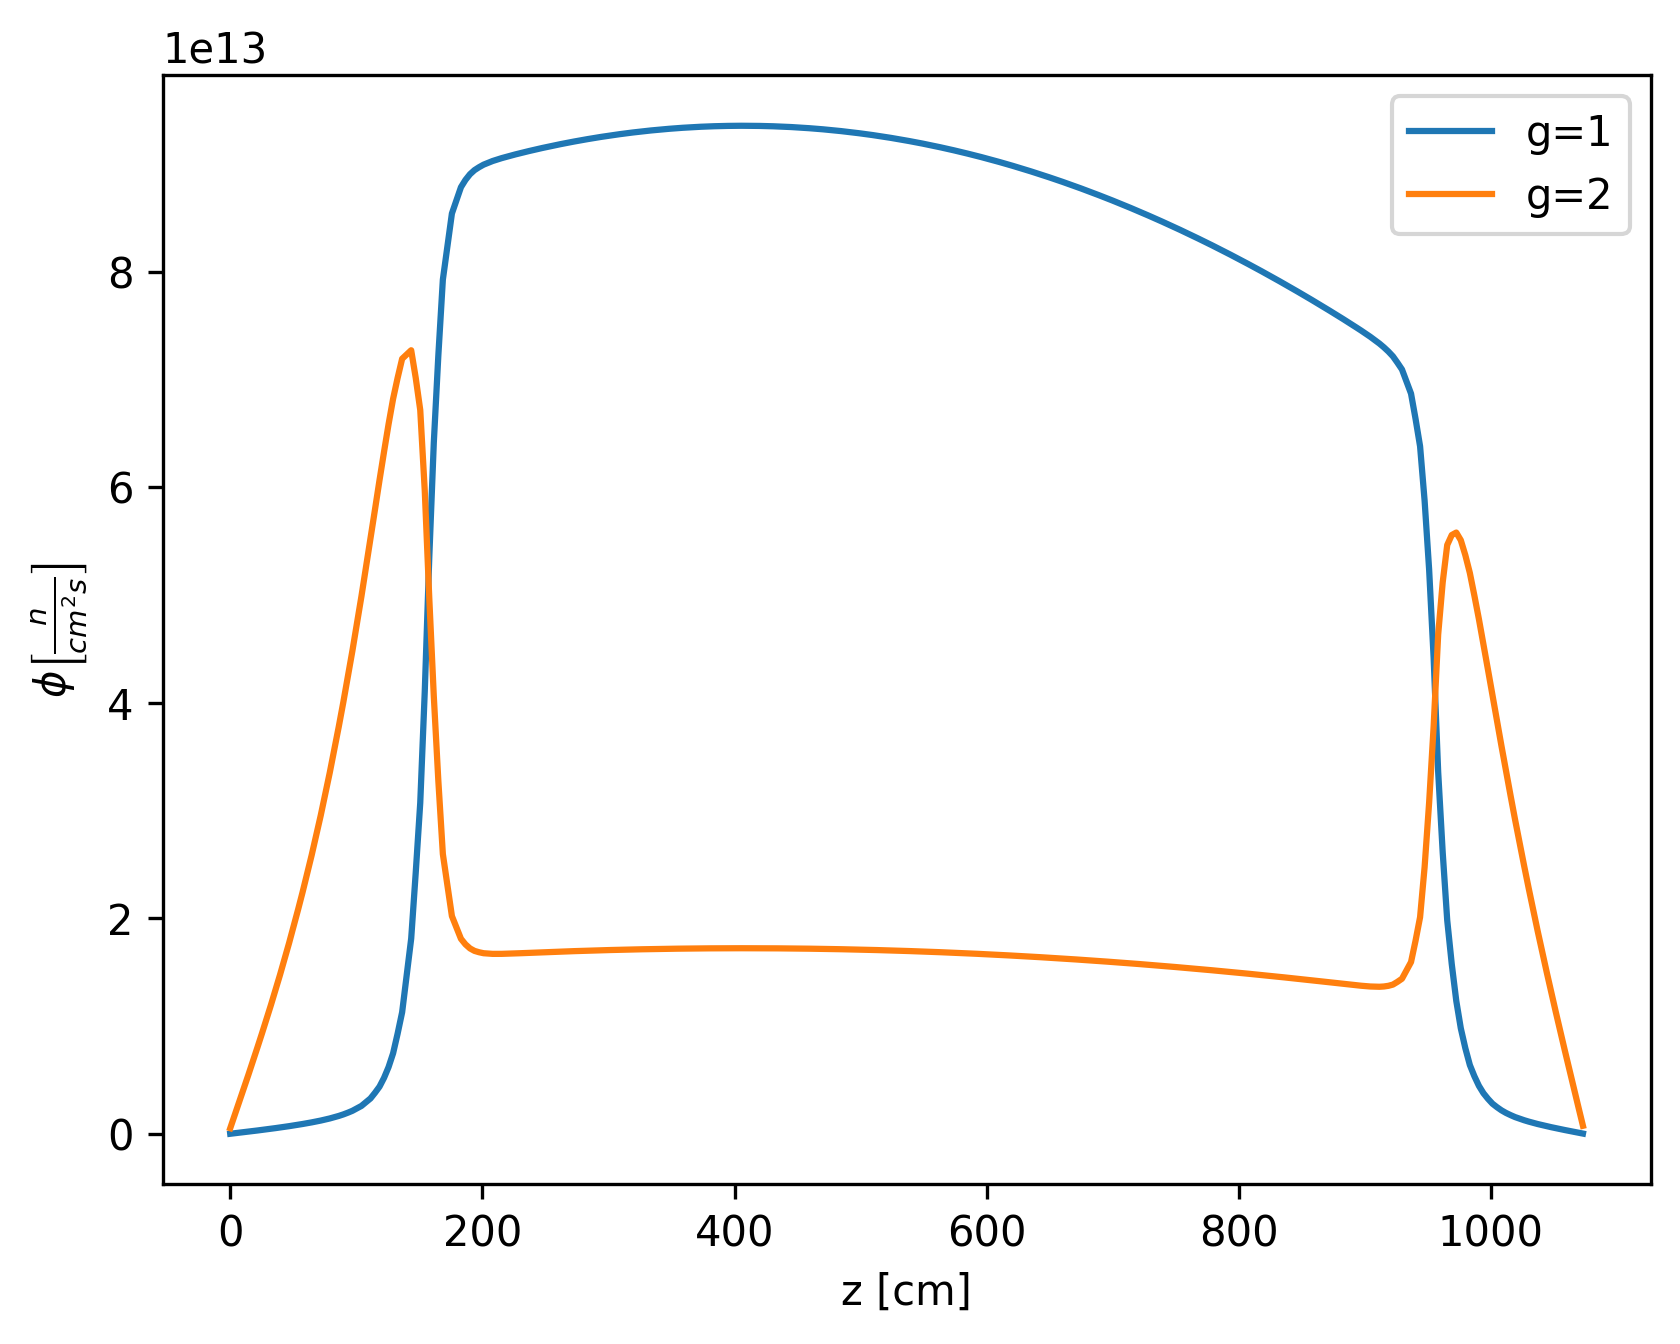
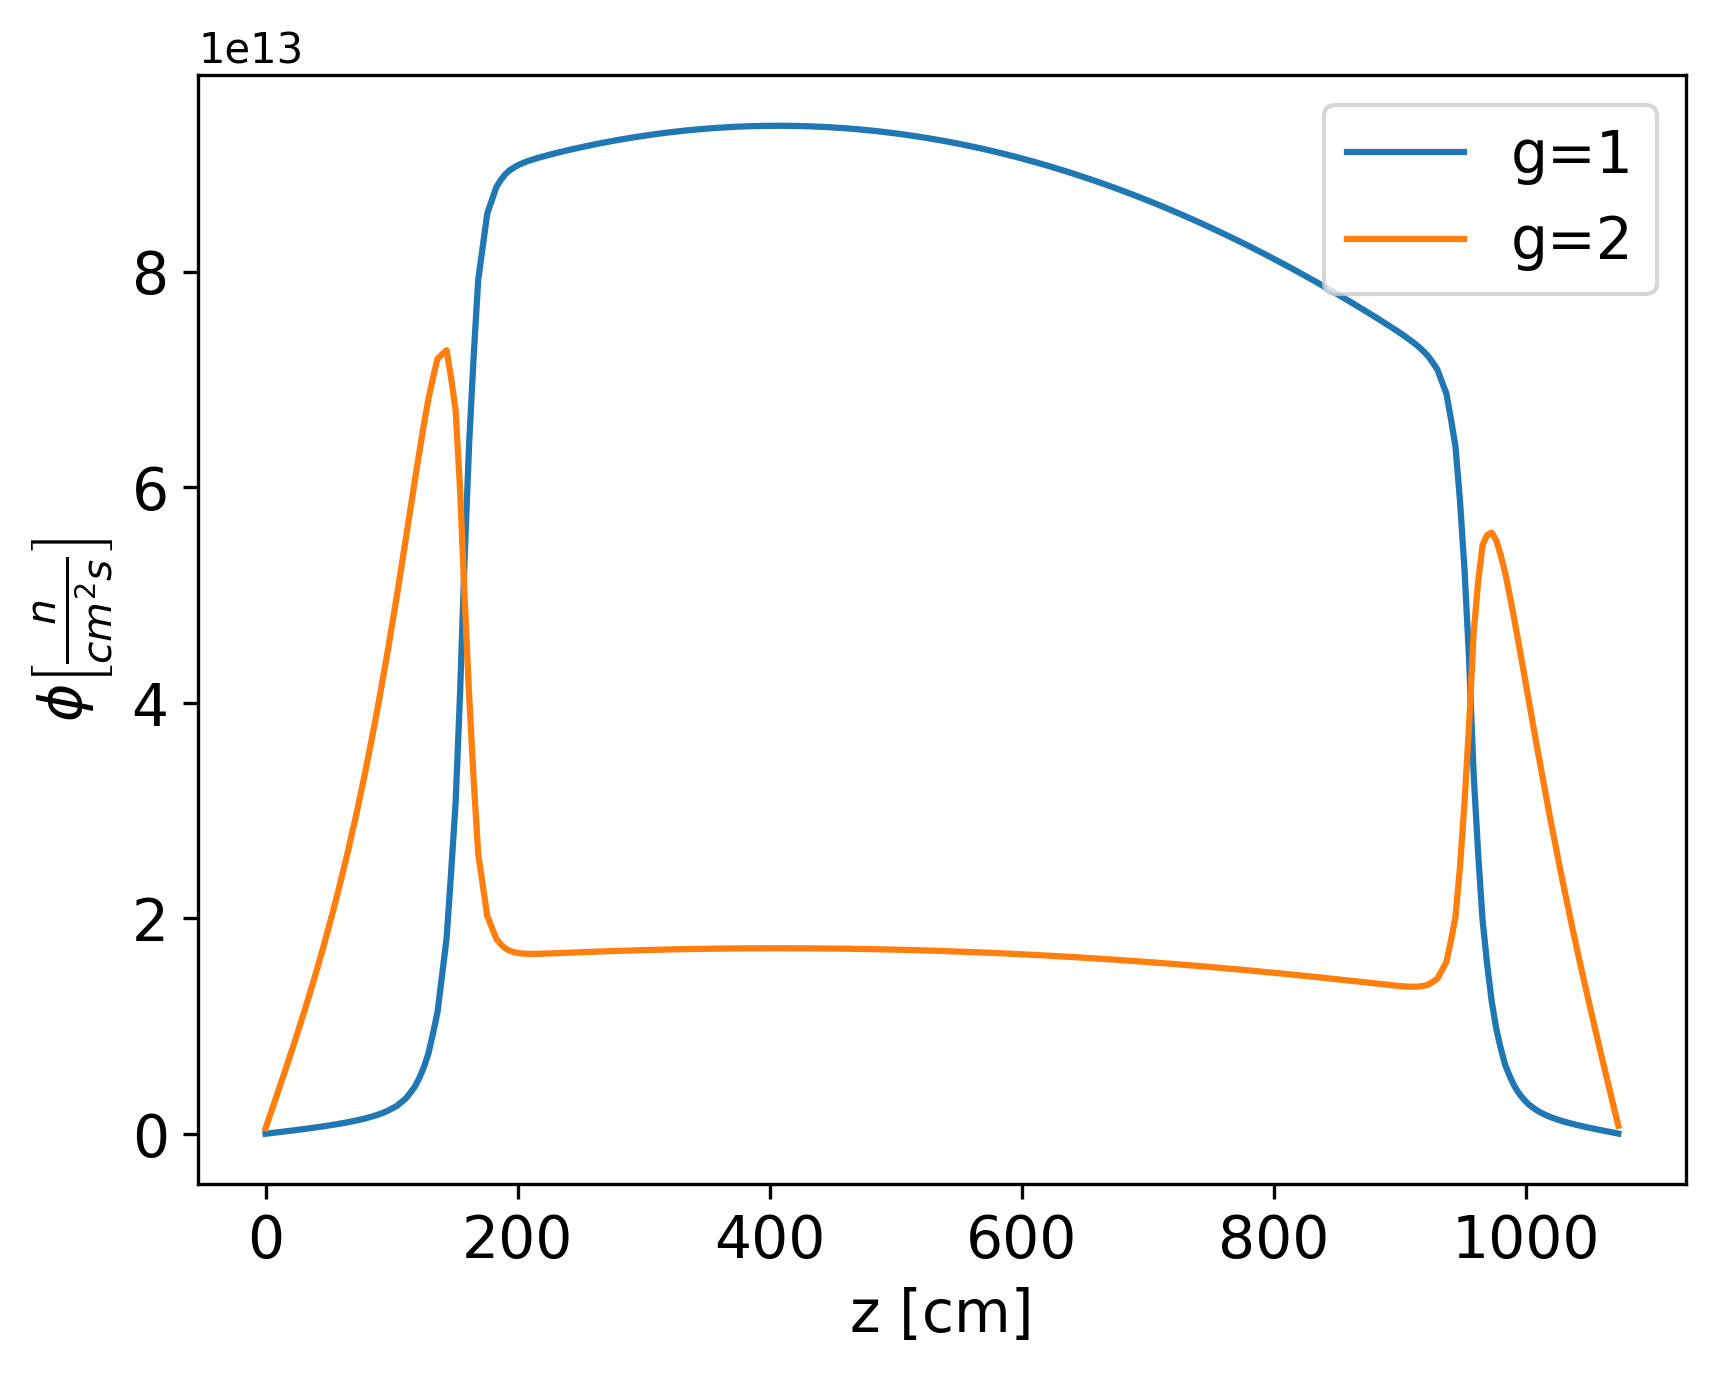
re-added file necessary for making the figures

Changed region(s): [[0.0, 0.0, 0.9905, 0.9688], [0.681, 0.1562, 0.7429, 0.1875], [0.619, 0.125, 0.681, 0.1562]]

diff --git a/serpent-moltres/problem-setup/auxiliary.py b/serpent-moltres/problem-setup/auxiliary.py
@@ -93,6 +93,56 @@ def moltres_assembly_legend():
                 dpi=300, bbox_inches="tight")
 
 
+def plot_serpent_axial_werrbars(data, name, save, V=1, dire='Z'):
+    """
+    Plots axial flux from serpent detector.
+
+    Parameters:
+    -----------
+    data: [serpenttools format]
+    name: [string]
+        name of the detector
+    fig: [string]
+        root name of the figure
+    V: [float]
+        total volume where the detector is applied [cm3]
+    dire: [float]
+        direction that the detector faces: 'X', 'Y', 'Z'
+    """
+
+    det = data.detectors[name]
+    z = [line[0] for line in det.grids[dire]]
+    z = np.array(z) + 160
+    val = det.tallies
+
+    vdetector = V/len(z)
+    val = val/vdetector
+    # M = max(val[1])
+    # val /= M
+
+    er = det.errors * val
+    G = len(val)  # number of energy groups
+
+    plt.figure()
+    for i in range(G):
+        # plt.step(z, val[G-1-i], where='post', label='g={0}'.format(i+1))
+        plt.errorbar(z, val[G-1-i], yerr=er[G-1-i], drawstyle='steps-post',
+                     label='g={0}'.format(i+1))
+
+    if G < 20:
+        plt.legend(loc="upper right", fontsize=14)
+    else:
+        plt.legend(loc="upper left", bbox_to_anchor=(1., 1.2), fancybox=True,
+                   fontsize=14)
+
+    plt.xticks(fontsize=14)
+    plt.yticks(fontsize=14)
+    plt.xlabel(dire.lower()+' [cm]', fontsize=14)
+    plt.ylabel(r'$\phi \left[\frac{n}{cm^2s}\right]$', fontsize=14)
+    plt.savefig(save + '-' + name + '-er', dpi=300, bbox_inches="tight")
+    plt.close()
+
+
 def plot_serpent_axial(data, name, save, V=1, dire='Z'):
     """
     Plots axial flux from serpent detector.
@@ -109,6 +159,7 @@ def plot_serpent_axial(data, name, save, V=1, dire='Z'):
     dire: [float]
         direction that the detector faces: 'X', 'Y', 'Z'
     """
+
     det = data.detectors[name]
     z = [line[0] for line in det.grids[dire]]
     z = np.array(z) + 160
@@ -123,13 +174,18 @@ def plot_serpent_axial(data, name, save, V=1, dire='Z'):
     for i in range(G):
         plt.step(z, val[G-1-i], where='post', label='g={0}'.format(i+1))
 
-    plt.xlabel(dire.lower()+' [cm]')
-    plt.ylabel(r'$\phi \left[\frac{n}{cm^2s}\right]$')
     if G < 20:
-        plt.legend(loc="upper right")
+        plt.legend(loc="upper right", fontsize=14)
     else:
-        plt.legend(loc="upper left", bbox_to_anchor=(1., 1.2), fancybox=True)
+        plt.legend(loc="upper left", bbox_to_anchor=(1., 1.2), fancybox=True,
+                   fontsize=14)
+
+    plt.xticks(fontsize=14)
+    plt.yticks(fontsize=14)
+    plt.xlabel(dire.lower()+' [cm]', fontsize=14)
+    plt.ylabel(r'$\phi \left[\frac{n}{cm^2s}\right]$', fontsize=14)
     plt.savefig(save + '-' + name, dpi=300, bbox_inches="tight")
+    plt.close()
 
 
 def plotcsv_frommoose_groups(file, save, G=2, dire='z'):
@@ -182,13 +238,15 @@ def plotcsv_frommoose_groups(file, save, G=2, dire='z'):
         plt.plot(x, group[i], label='g='+str(i+1))
 
     if G < 20:
-        plt.legend(loc="upper left", bbox_to_anchor=(1., 1.), fancybox=True)
+        plt.legend(loc="upper right", fontsize=14)
     else:
-        # 1.1 or 1.2
-        plt.legend(loc="upper left", bbox_to_anchor=(1., 1.1), fancybox=True)
+        plt.legend(loc="upper left", bbox_to_anchor=(1., 1.2), fancybox=True,
+                   fontsize=14)
 
-    plt.xlabel(dire+' [cm]')
-    plt.ylabel(r'$\phi \left[\frac{n}{cm^2s}\right]$')
+    plt.xticks(fontsize=14)
+    plt.yticks(fontsize=14)
+    plt.xlabel(dire+' [cm]', fontsize=14)
+    plt.ylabel(r'$\phi \left[\frac{n}{cm^2s}\right]$', fontsize=14)
     plt.savefig(save, dpi=300, bbox_inches="tight")
     plt.close()
 
@@ -204,14 +262,15 @@ def main():
     A = 18/np.cos(np.pi/6)  # cm length of face of the hexagon
     Ah = 6. * (A * 18./2)  # Area of the hexagon
     V = Ah * (160 + 793 + 120)
-    plot_serpent_axial(data, 'Axial', save, V)
+    # plot_serpent_axial(data, 'Axial', save, V)
+    plot_serpent_axial_werrbars(data, 'Axial', save, V)
 
     # Moltres results
     # Add legend to geometry figure
     # moltres_assembly_legend()
 
     # Plot flux
-    file = '3D-assembly-homo-eig-fuel_0002.csv'
+    file = '3D-assembly-homo-eig_fuel_0002.csv'
     save = 'standard-column-homo'
     plotcsv_frommoose_groups(file, save, G=2, dire='z')
 
